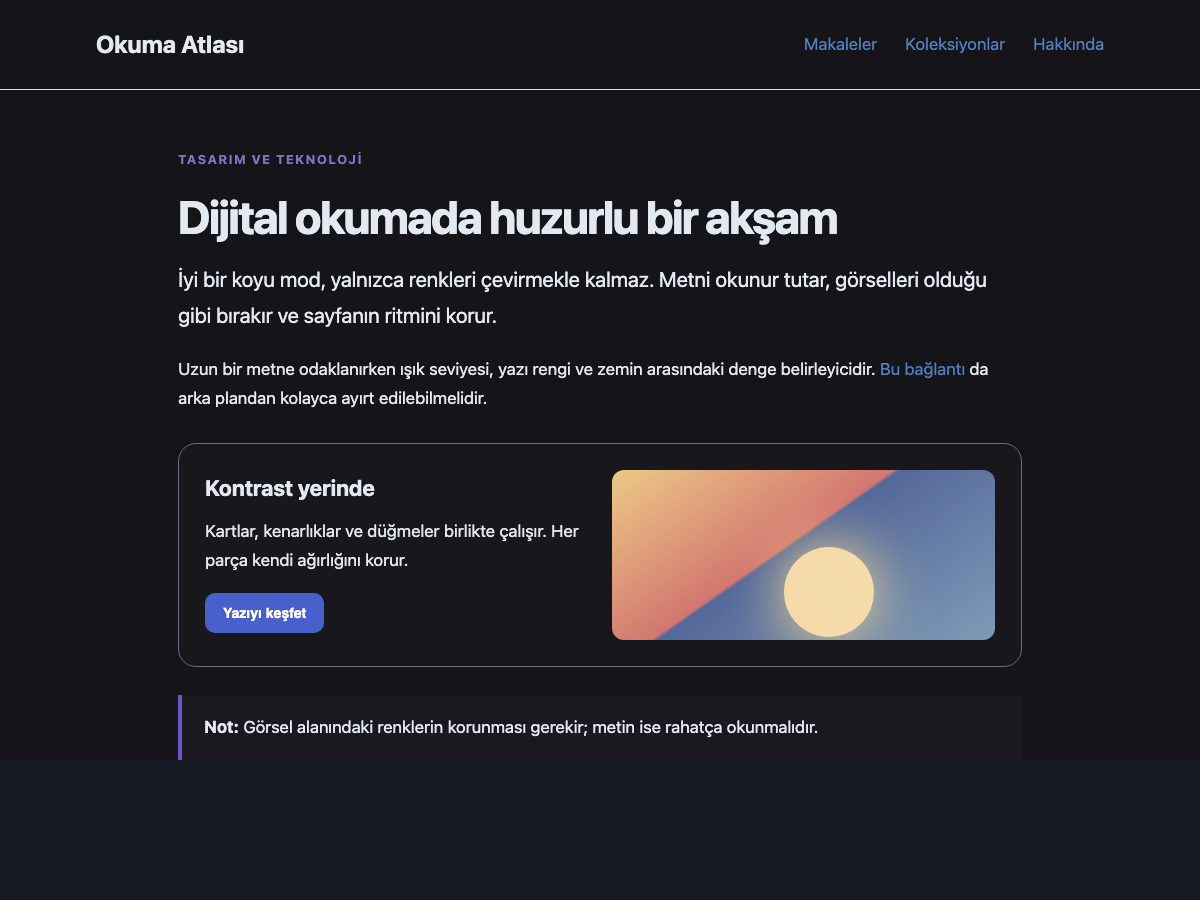
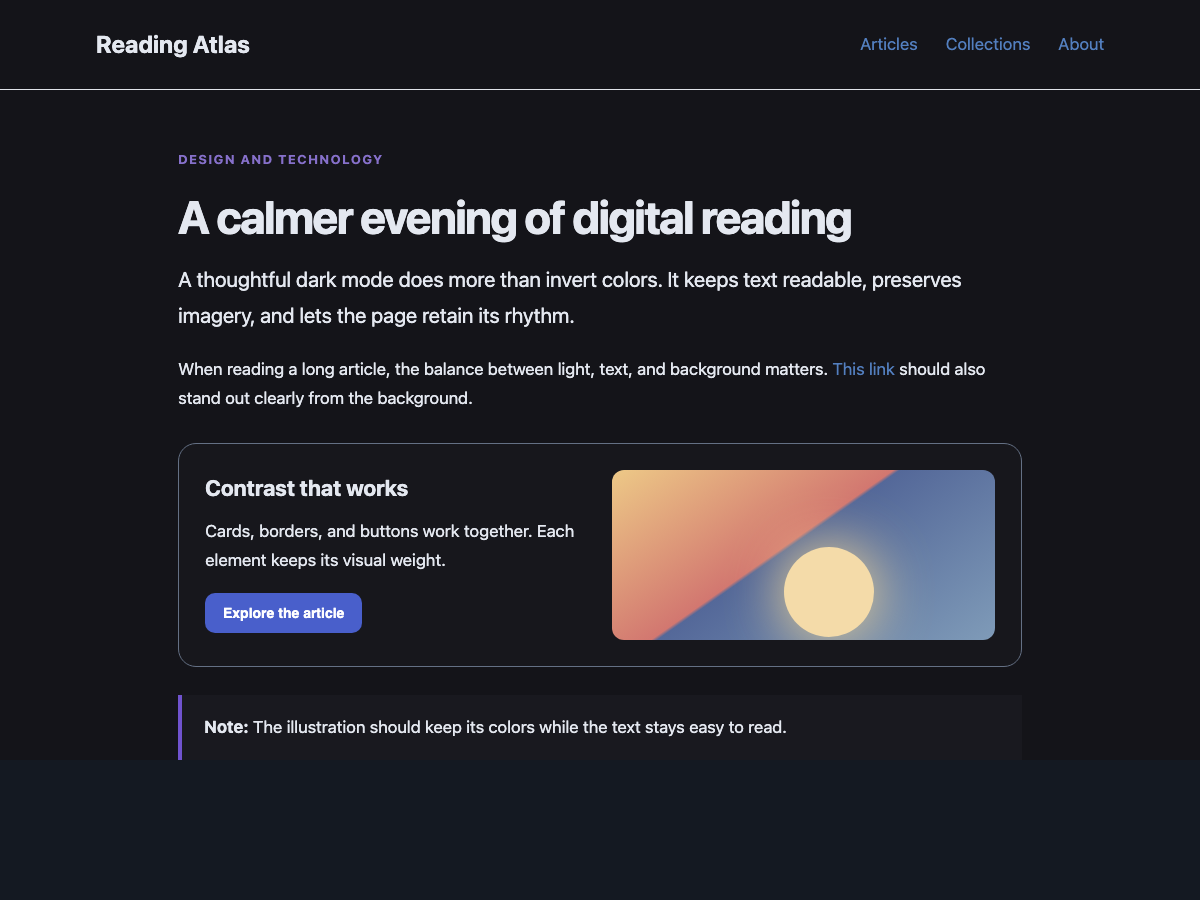
docs: publish English guide and screenshots

diff --git a/README.md b/README.md
@@ -1,41 +1,41 @@
 # LumaShade
 
-Safari için sakin, okunabilir bir koyu mod eklentisi. Açık renkli sayfaları koyulaştırır; yazı ve bağlantıları arka planla yeterli kontrasta taşır. Fotoğraf, video, canvas ve gömülü içerikleri yeniden renklendirmez. Zaten koyu görünen sayfalarda otomatik olarak devre dışı kalır.
+A calm, readable dark mode for Safari. LumaShade darkens bright websites and adjusts text and links for contrast. It leaves photos, videos, canvas, and embedded content untouched, and steps aside when a website already has a dark theme.
 
-![LumaShade örnek görünüm](Screenshots/after.png)
+![LumaShade preview](Screenshots/after.png)
 
-| Önce | Sonra |
+| Before | After |
 | --- | --- |
-| ![Açık örnek sayfa](Screenshots/before.png) | ![LumaShade uygulanmış örnek sayfa](Screenshots/after.png) |
+| ![Bright sample page](Screenshots/before.png) | ![Sample page with LumaShade](Screenshots/after.png) |
 
-Ekran görüntüleri, depodaki [örnek sayfanın](Tests/sample.html) aynı tarayıcı penceresinde önce ve sonra render edilmesiyle alındı.
+The screenshots show the same [sample page](Tests/sample.html) before and after applying LumaShade in a browser preview.
 
-## Özellikler
+## Features
 
-- Site genelinde açma ve kapatma; alan adı bazında istisna.
-- Açık zeminleri ve üzerindeki metni birlikte dönüştürme. Normal boyutlu metin için hedef kontrast **en az 4,5:1**.
-- Var olan koyu temayı algılayıp sayfaya müdahale etmeme.
-- Sonradan yüklenen sayfa öğelerine de uygulama.
-- Görsel ve videoların renklerini koruma.
-- Hesap, sunucu, reklam ve izleme kodu yok. Tercihler yalnızca tarayıcının yerel depolamasında tutulur.
+- Turn dark mode on or off globally, with a separate switch for each website.
+- Transform bright surfaces and their text together. The target contrast for normal text is **at least 4.5:1**.
+- Detect existing dark themes and leave them alone.
+- Adapt content added after a page loads.
+- Preserve the original colors of photos and videos.
+- No account, server, ads, or tracking. Preferences stay in the browser's local storage.
 
-## Safari'de kurulum
+## Install in Safari
 
-1. [LumaShade.xcodeproj](LumaShade/LumaShade.xcodeproj) dosyasını Xcode ile açın.
-2. `LumaShade` ve `LumaShade Extension` hedeflerinin **Signing & Capabilities** bölümünde kendi Apple geliştirme takımınızı seçin.
-3. Şema olarak `LumaShade`, hedef olarak `My Mac` seçip **Run**'a basın.
-4. Açılan uygulamada **Safari Eklenti Ayarlarını Aç** düğmesini kullanın. Safari'nin **Ayarlar → Eklentiler** bölümünde LumaShade'i etkinleştirin ve web siteleri için izin verin.
-5. Değişiklik görmek istediğiniz açık sekmeleri yenileyin. Araç çubuğundaki LumaShade simgesinden genel ve site bazlı anahtarları yönetin.
+1. Open [LumaShade.xcodeproj](LumaShade/LumaShade.xcodeproj) in Xcode.
+2. Select your Apple development team under **Signing & Capabilities** for both the `LumaShade` and `LumaShade Extension` targets.
+3. Select the `LumaShade` scheme and `My Mac` destination, then click **Run**.
+4. In the app, click **Open Safari Extension Settings**. Enable LumaShade under **Safari Settings → Extensions** and allow access to websites.
+5. Refresh any open tabs you want to darken. Use the LumaShade toolbar icon to manage the global and per-site switches.
 
-Safari'nin kendi iç sayfalarında ve eklenti çalıştırmaya izin vermeyen sayfalarda görünüm değişmez. Çok özel çizim yapan sitelerde alan adı anahtarından eklentiyi kapatabilirsiniz.
+Safari's internal pages and pages that do not allow extensions remain unchanged. If a particular website renders unusually, turn LumaShade off for that site.
 
-## Geliştirme
+## Development
 
-Eklenti kaynakları [`Extension/`](Extension/) içindedir. Xcode projesi bu dosyaları doğrudan kullanır; ikinci bir kopya tutulmaz.
+The extension source is in [`Extension/`](Extension/). The Xcode project references these files directly, so there is no second copy to keep in sync.
 
 ```sh
 node --test Tests/colors.test.js
 xcodebuild -project LumaShade/LumaShade.xcodeproj -scheme LumaShade -configuration Debug -derivedDataPath build CODE_SIGNING_ALLOWED=NO build
 ```
 
-Ekran görüntüleri bir örnek sayfa üzerinde alınmıştır; gerçek sitelerin tasarımı farklılık gösterebilir. Kaynak kodu [MIT lisansı](LICENSE) ile sunulur.
+The screenshots use a sample page; results on individual websites may vary. Released under the [MIT license](LICENSE).
